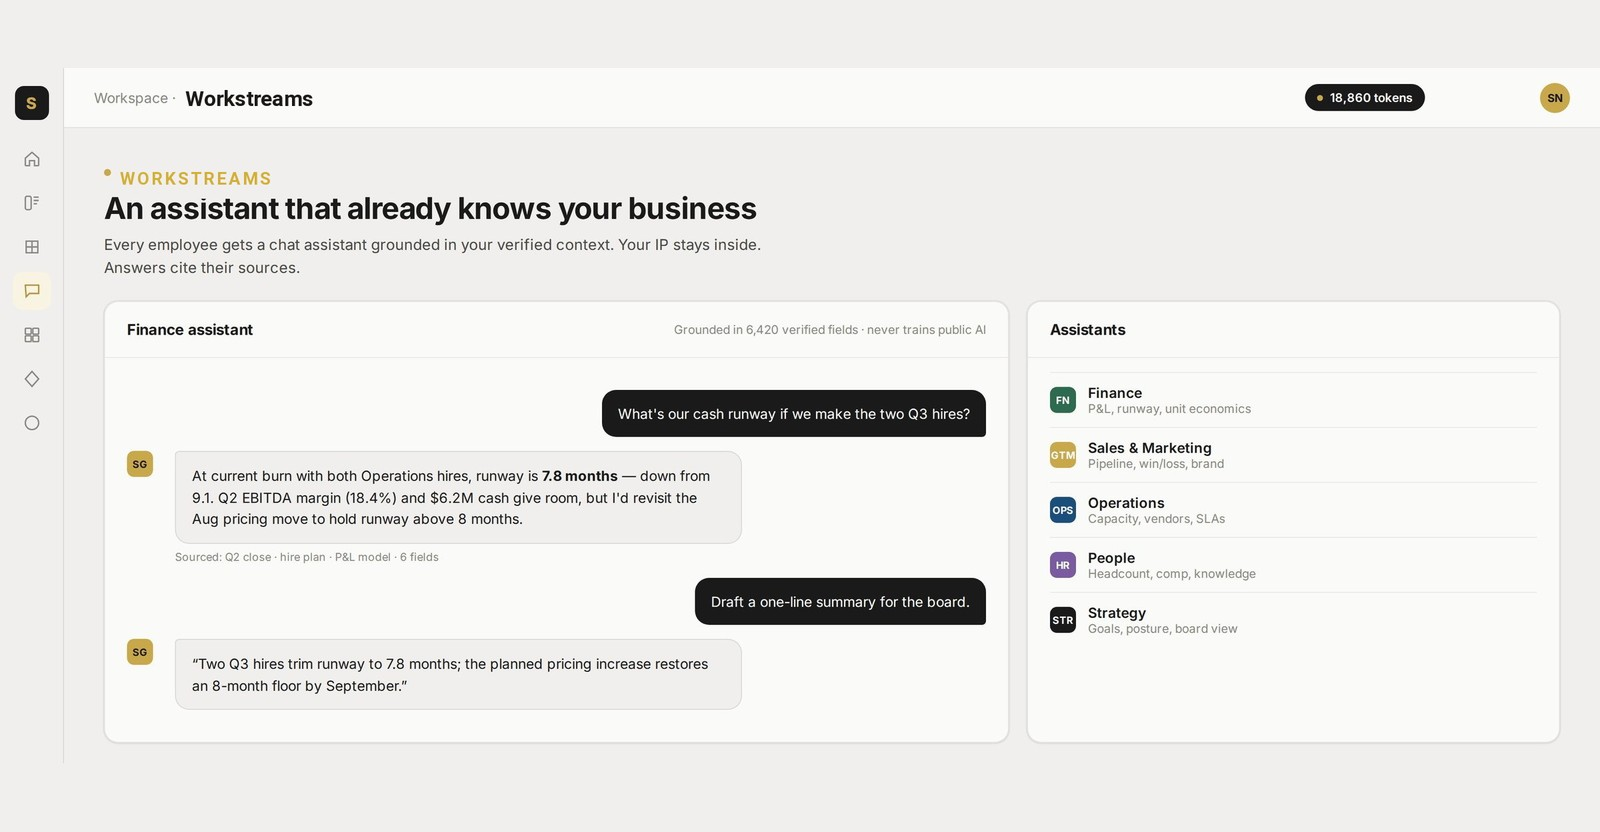
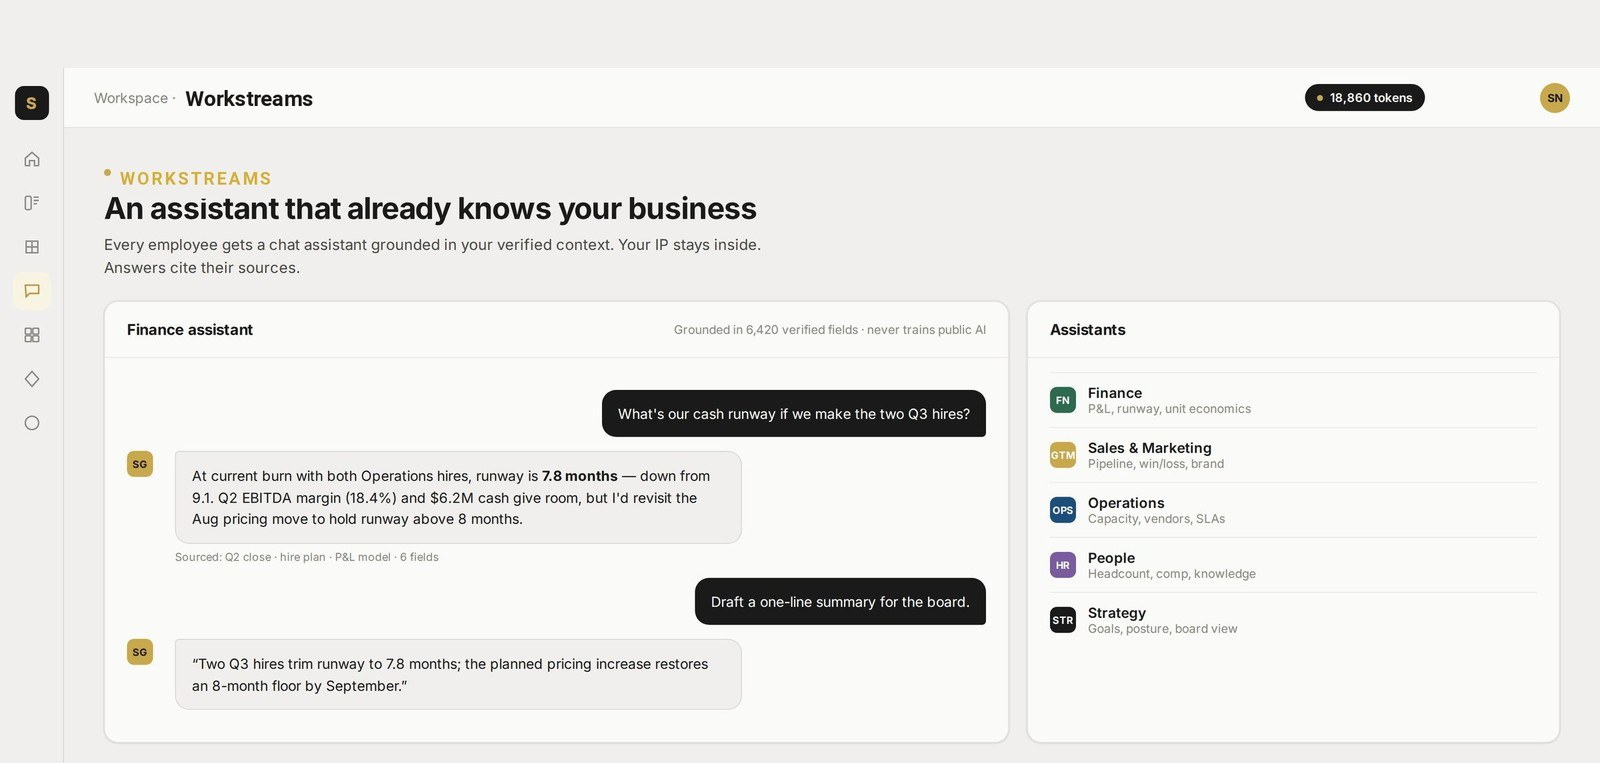
Fix gray left-margin on white blocks; resize Workstreams image to match sibling framing

diff --git a/how-it-works.html b/how-it-works.html
@@ -169,7 +169,7 @@ j=d.createElement(s),dl=l!='dataLayer'?'&l='+l:'';j.async=true;j.src=
   .hiw-story__block{position:relative;padding:2.75rem 0;border-bottom:1px solid var(--c-line);}
   .hiw-story__block:first-child{padding-top:.4rem;}
   .hiw-story__block:last-child{border-bottom:none;}
-  .hiw-story__block--white::before{content:"";position:absolute;top:0;bottom:0;left:50%;width:100vw;transform:translateX(-50%);background:var(--c-white);z-index:-1;}
+  .hiw-story__block--white::before{content:"";position:absolute;top:0;bottom:0;left:var(--hiw-bl,50%);width:var(--hiw-bw,100vw);transform:var(--hiw-bt,translateX(-50%));background:var(--c-white);z-index:-1;}
   .hiw-story__block-grid{display:grid;grid-template-columns:1fr;gap:1.75rem;align-items:start;}
   .hiw-story__title{position:relative;font-family:'Playfair Display',serif;font-weight:500;font-size:var(--fs-3);line-height:1.22;letter-spacing:-.01em;color:var(--c-ink);margin:0 0 .95rem;max-width:26ch;}
   .hiw-story__title::before{content:"";position:absolute;left:-2.1rem;top:.32em;width:9px;height:9px;border-radius:50%;background:#D4AF37;transform:translateX(-3.5px);}
@@ -629,7 +629,7 @@ height="0" width="0" style="display:none;visibility:hidden"></iframe></noscript>
               <p class="hiw-story__body">An AI that your employees can work with, personalized for your business.</p>
               <p class="hiw-story__body" style="max-width:none;">It&rsquo;s private, rooted in your company, and always current. Your business data stays within your&nbsp;four&nbsp;walls.</p>
             </div>
-            <figure class="hiw-story__art shot--zoomable"><img src="img/sg-workstreams-1600w.jpg" srcset="img/sg-workstreams-800w.jpg 800w, img/sg-workstreams-1600w.jpg 1600w, img/sg-workstreams-2400w.jpg 2400w" sizes="(max-width: 900px) 100vw, 60vw" width="1600" height="832" alt="Workstreams: an assistant that already knows your business, for Finance, Sales and Marketing, Operations, People, and Strategy." loading="lazy" decoding="async"></figure>
+            <figure class="hiw-story__art shot--zoomable"><img src="img/sg-workstreams-1600w.jpg" srcset="img/sg-workstreams-800w.jpg 800w, img/sg-workstreams-1600w.jpg 1600w, img/sg-workstreams-2400w.jpg 2400w" sizes="(max-width: 900px) 100vw, 60vw" width="1600" height="763" alt="Workstreams: an assistant that already knows your business, for Finance, Sales and Marketing, Operations, People, and Strategy." loading="lazy" decoding="async"></figure>
           </div>
         </article>
       </div>
@@ -713,5 +713,6 @@ height="0" width="0" style="display:none;visibility:hidden"></iframe></noscript>
 </footer>
 
 <script src="js/site.js?v=1787276638" defer></script>
+<script>(function(){function fixBleed(){document.querySelectorAll('.hiw-story__block--white').forEach(function(el){var r=el.getBoundingClientRect();el.style.setProperty('--hiw-bl',(-r.left)+'px');el.style.setProperty('--hiw-bw',document.documentElement.clientWidth+'px');el.style.setProperty('--hiw-bt','none');});}fixBleed();window.addEventListener('resize',fixBleed);window.addEventListener('load',fixBleed);})();</script>
 </body>
 </html>
